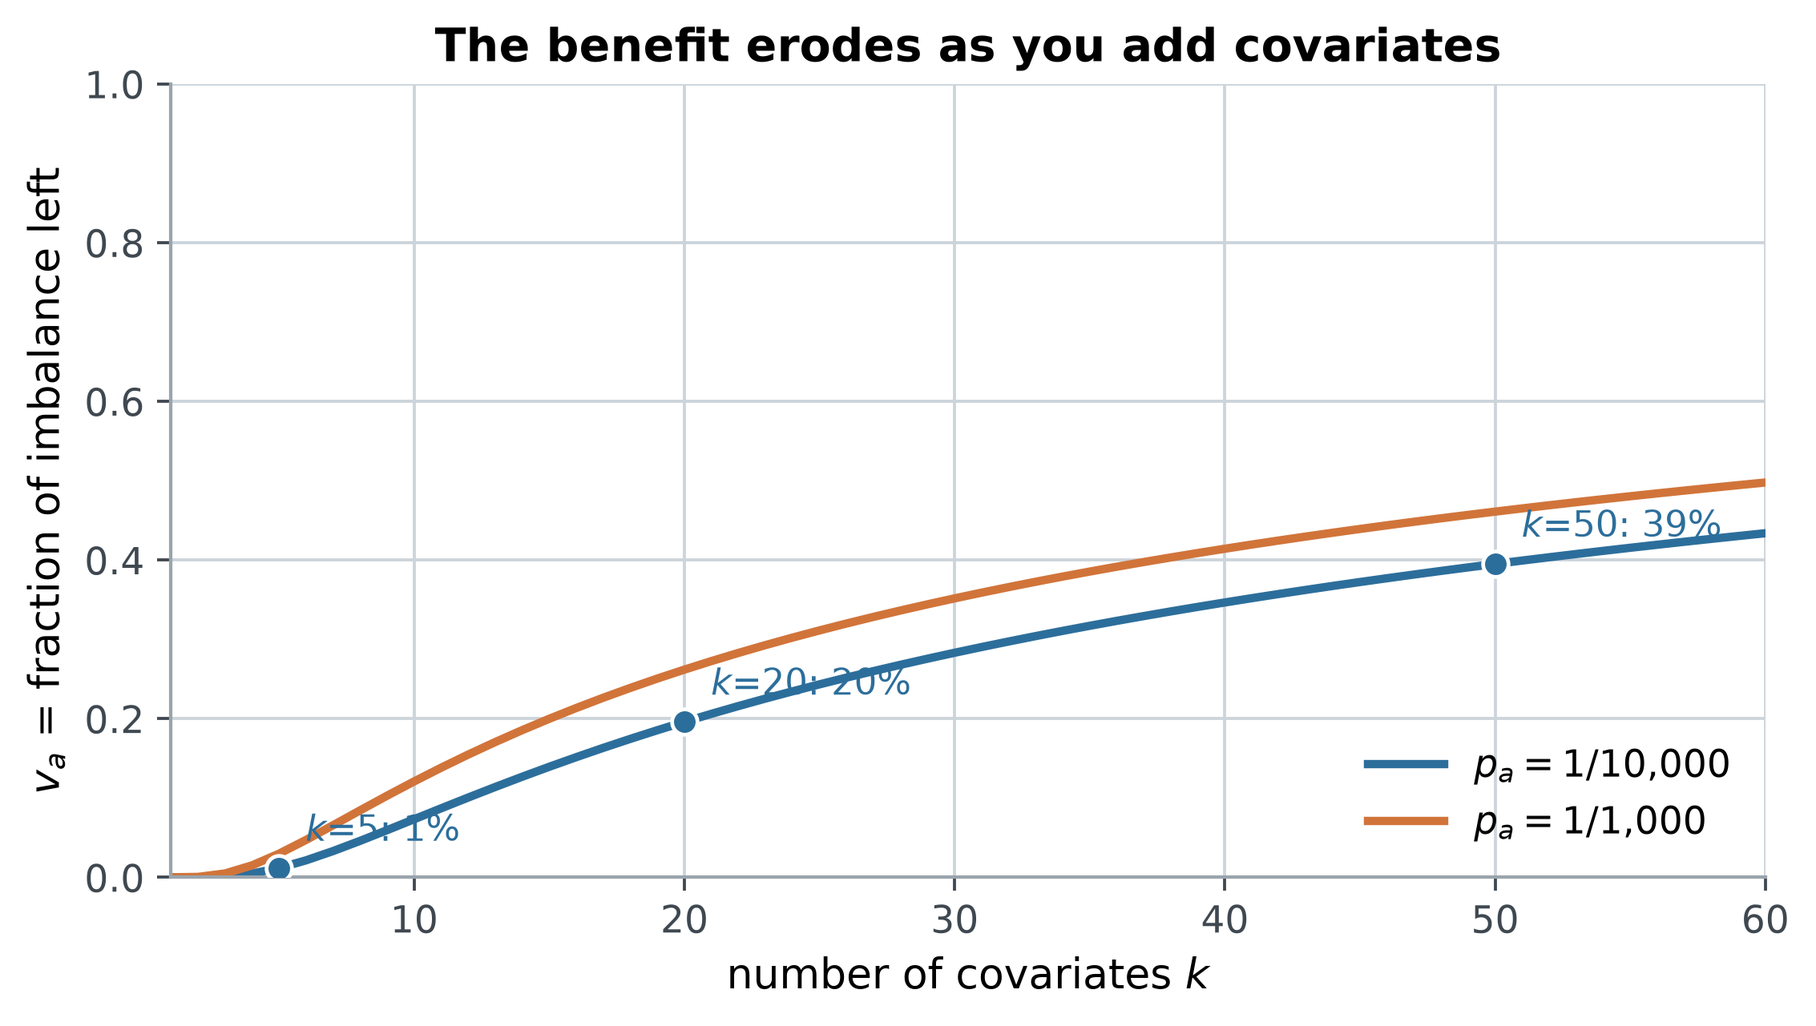
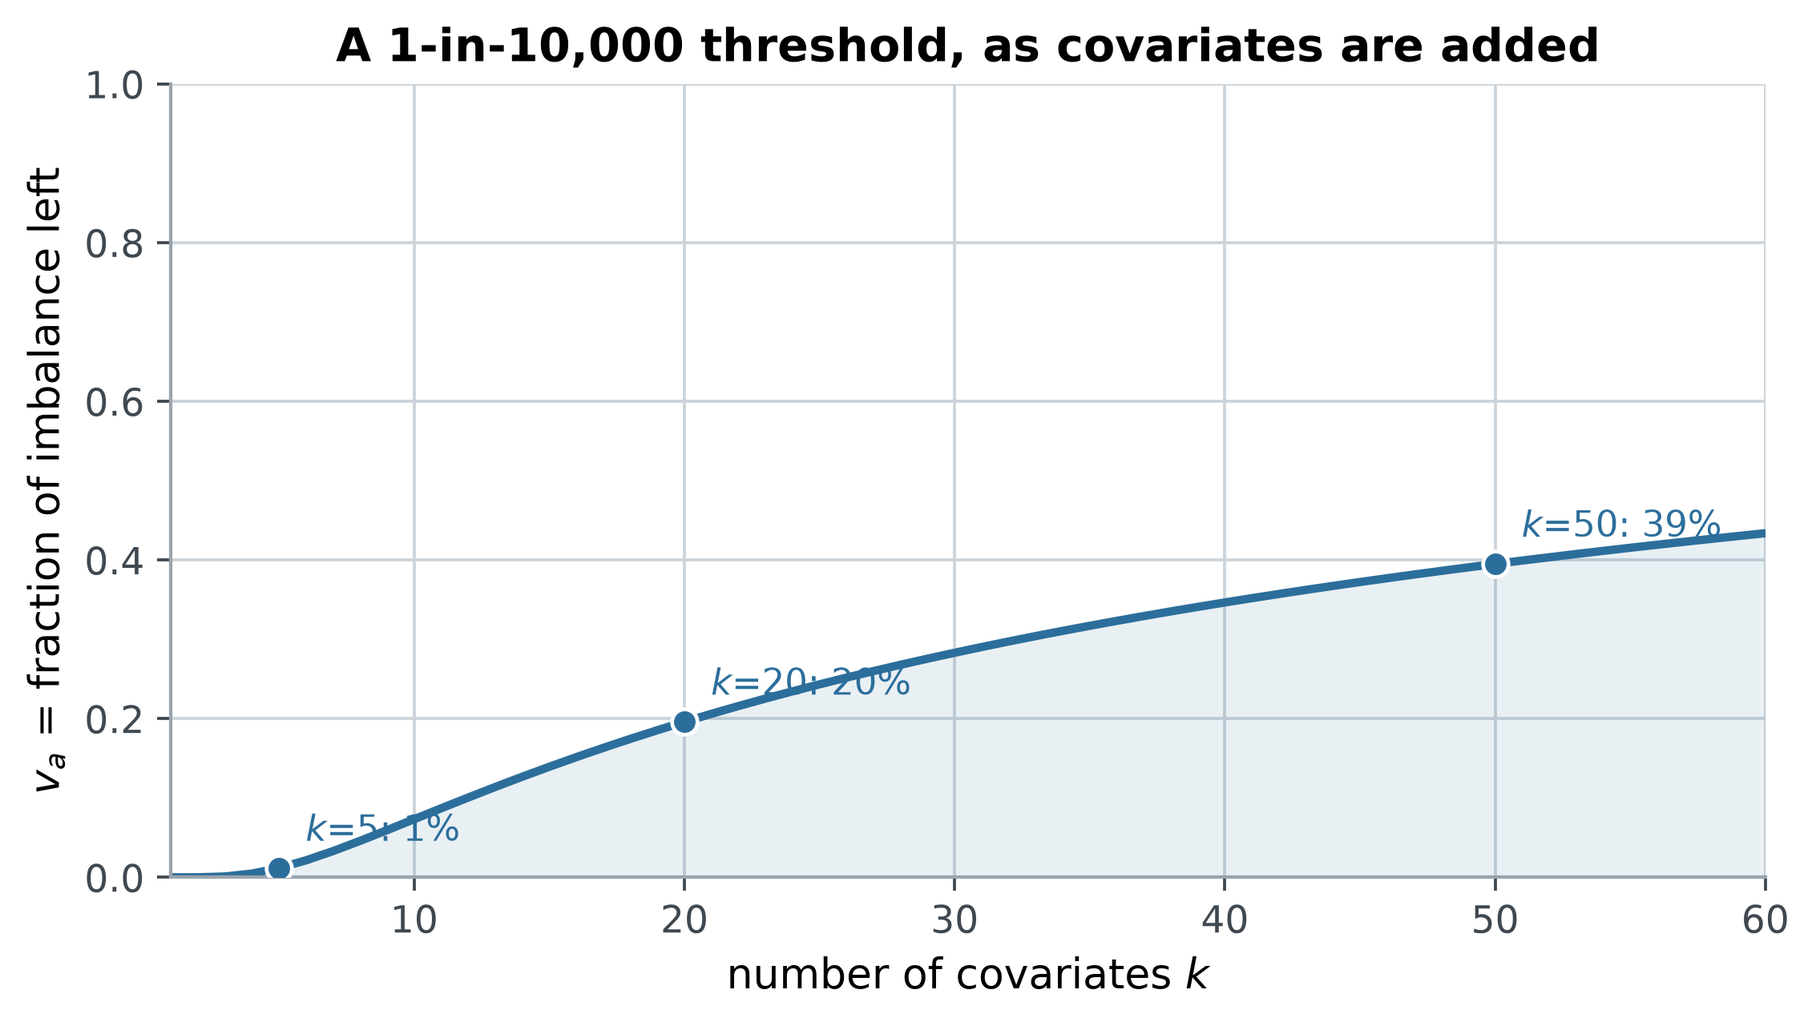
Fix table captions; correct the best-of-B attribution to Morgan and Rubin
Captions: the ": text {#tbl-id}" form only works for markdown pipe tables,
not for tables emitted by a code cell, so all three were rendering as
literal text under a bare "Table 1". Moved them into tbl-cap cell options.
The interactive figure was likewise rendering as an uncaptioned "Figure 1";
it now has one.

Attribution: I was wrong to say the best-of-B idea was not Morgan and
Rubin. It is theirs, in section 5.2 of the 2015 tiers paper, and the
article now quotes them. Checking the source confirms they offer it as an
expectation with no proof or simulation, so the computed comparison now
fills that gap rather than contradicting them: the two schemes differ most
at small k, where both have already removed essentially all the imbalance,
and converge to within a few percent at the large k where the residual
actually matters. Their expectation holds, for a reason the sentence
itself does not give.

Variance-reduction plot: single curve at p_a = 1/10,000 as requested.

Inference section now answers what the Li-Ding-Rubin distribution is
actually worth. Standard errors shrink by sqrt(1 - (1-v_a)R^2), so the
payoff is governed by R^2 and barely by the acceptance rate: 10% narrower
intervals at R^2 = 0.2, 54% at R^2 = 0.8. Added the three routes for a
general estimator, with the point that matters for a difference-in-
differences: adjusting for the balancing covariates restores asymptotic
normality (Li and Ding, 2020), so the closed form is usually unnecessary,
[…]

diff --git a/docs/posts/rerandomization/index.html b/docs/posts/rerandomization/index.html
@@ -160,7 +160,11 @@ window.Quarto = {
   <li><a href="#a-budget-instead-of-a-threshold" id="toc-a-budget-instead-of-a-threshold" class="nav-link" data-scroll-target="#a-budget-instead-of-a-threshold">A budget instead of a threshold</a></li>
   <li><a href="#the-acceptance-region" id="toc-the-acceptance-region" class="nav-link" data-scroll-target="#the-acceptance-region">The acceptance region</a></li>
   <li><a href="#how-much-does-it-buy-you" id="toc-how-much-does-it-buy-you" class="nav-link" data-scroll-target="#how-much-does-it-buy-you">How much does it buy you?</a></li>
-  <li><a href="#inference-after-rerandomization" id="toc-inference-after-rerandomization" class="nav-link" data-scroll-target="#inference-after-rerandomization">Inference after rerandomization</a></li>
+  <li><a href="#inference-after-rerandomization" id="toc-inference-after-rerandomization" class="nav-link" data-scroll-target="#inference-after-rerandomization">Inference after rerandomization</a>
+  <ul class="collapse">
+  <li><a href="#how-much-is-that-worth" id="toc-how-much-is-that-worth" class="nav-link" data-scroll-target="#how-much-is-that-worth">How much is that worth?</a></li>
+  <li><a href="#do-you-have-to-derive-it-for-your-own-estimator" id="toc-do-you-have-to-derive-it-for-your-own-estimator" class="nav-link" data-scroll-target="#do-you-have-to-derive-it-for-your-own-estimator">Do you have to derive it for your own estimator?</a></li>
+  </ul></li>
   <li><a href="#covariate-adjustment-as-an-alternative" id="toc-covariate-adjustment-as-an-alternative" class="nav-link" data-scroll-target="#covariate-adjustment-as-an-alternative">Covariate adjustment as an alternative</a></li>
   <li><a href="#practical-notes-and-failure-modes" id="toc-practical-notes-and-failure-modes" class="nav-link" data-scroll-target="#practical-notes-and-failure-modes">Practical notes and failure modes</a></li>
   <li><a href="#references" id="toc-references" class="nav-link" data-scroll-target="#references">References</a></li>
@@ -234,15 +238,15 @@ a = F^{-1}_{\chi^2_k}(p_a), \qquad \text{accept if } M \le a .
 <div class="cell" data-execution_count="2">
 <div id="tbl-thresholds" class="cell quarto-float quarto-figure quarto-figure-center anchored" data-execution_count="2">
 <figure class="quarto-float quarto-float-tbl figure">
-<figcaption class="quarto-float-caption-top quarto-float-caption quarto-float-tbl quarto-uncaptioned" id="tbl-thresholds-caption-0ceaefa1-69ba-4598-a22c-09a6ac19f8ca">
-Table&nbsp;1
+<figcaption class="quarto-float-caption-top quarto-float-caption quarto-float-tbl" id="tbl-thresholds-caption-0ceaefa1-69ba-4598-a22c-09a6ac19f8ca">
+Table&nbsp;1: Threshold <span class="math inline">\(a\)</span> for a given acceptance rate <span class="math inline">\(p_a\)</span> (rows) and number of covariates <span class="math inline">\(k\)</span> (columns). Accept a split when <span class="math inline">\(M \le a\)</span>. The first column is the average number of draws you will get through before one is accepted.
 </figcaption>
 <div aria-describedby="tbl-thresholds-caption-0ceaefa1-69ba-4598-a22c-09a6ac19f8ca">
 <div class="cell-output cell-output-display" data-execution_count="2">
 <div>
 
 
-<table class="dataframe caption-top table table-sm table-striped small" data-border="1">
+<table class="dataframe cell caption-top table table-sm table-striped small" data-border="1">
 <thead>
 <tr class="header">
 <th data-quarto-table-cell-role="th"></th>
@@ -319,24 +323,27 @@ Table&nbsp;1
 </figure>
 </div>
 </div>
-<p>: Threshold <span class="math inline">\(a\)</span> to use for a given acceptance rate <span class="math inline">\(p_a\)</span> (rows) and number of covariates <span class="math inline">\(k\)</span> (columns). Accept a split when <span class="math inline">\(M \le a\)</span>. The second column is the average number of draws you will get through before one is accepted. {#tbl-thresholds}</p>
 </section>
 <section id="a-budget-instead-of-a-threshold" class="level2">
 <h2 class="anchored" data-anchor-id="a-budget-instead-of-a-threshold">A budget instead of a threshold</h2>
-<p>Picking <span class="math inline">\(p_a\)</span> means committing to an unbounded loop: you will <em>probably</em> accept within a few thousand draws, but nothing guarantees it. The alternative is to fix a budget — draw 10,000 splits, keep the single best one — which runs in known time and requires no threshold at all.</p>
-<p>These are not the same procedure, and the difference goes the way most people guess wrong. Drawing <span class="math inline">\(B\)</span> and keeping the best is <strong>worse</strong> than thresholding at <span class="math inline">\(p_a = 1/B\)</span>, because the winner of a tournament of <span class="math inline">\(B\)</span> is not guaranteed to clear the 1-in-<span class="math inline">\(B\)</span> bar: it misses it about <span class="math inline">\((1 - 1/B)^B \approx 37\%\)</span> of the time.</p>
+<p>Picking <span class="math inline">\(p_a\)</span> means committing to an unbounded loop: you will <em>probably</em> accept within a few thousand draws, but nothing guarantees it. The alternative is to fix a budget — draw 10,000 splits, keep the single best one — which runs in known time and needs no threshold at all.</p>
+<p>Morgan and Rubin recommend exactly this, in §5.2 of their 2015 tiers paper:</p>
+<blockquote class="blockquote">
+<p>In practice we expect to see little difference between rerandomizing until an allocation with <span class="math inline">\(M \le a\)</span> is obtained, and choosing the allocation with the smallest <span class="math inline">\(M\)</span> from <span class="math inline">\(1/p_a\)</span> randomizations, where <span class="math inline">\(p_a = P(M \le a)\)</span>.</p>
+</blockquote>
+<p>That is offered as an expectation rather than a result — the paper gives no proof or simulation for it — so it is worth checking. The two schemes are genuinely different: the winner of a tournament of <span class="math inline">\(B\)</span> draws is not guaranteed to clear the 1-in-<span class="math inline">\(B\)</span> bar, and misses it about <span class="math inline">\((1 - 1/B)^B \approx 37\%\)</span> of the time. Best-of-<span class="math inline">\(B\)</span> is therefore always the weaker of the two.</p>
 <div class="cell" data-execution_count="3">
 <div id="tbl-budget" class="cell quarto-float quarto-figure quarto-figure-center anchored" data-execution_count="3">
 <figure class="quarto-float quarto-float-tbl figure">
-<figcaption class="quarto-float-caption-top quarto-float-caption quarto-float-tbl quarto-uncaptioned" id="tbl-budget-caption-0ceaefa1-69ba-4598-a22c-09a6ac19f8ca">
-Table&nbsp;2
+<figcaption class="quarto-float-caption-top quarto-float-caption quarto-float-tbl" id="tbl-budget-caption-0ceaefa1-69ba-4598-a22c-09a6ac19f8ca">
+Table&nbsp;2: Residual imbalance variance <span class="math inline">\(v\)</span> under the two schemes, as a fraction of what complete randomisation leaves. Lower is better. Best-of-10,000 is never better than thresholding at 1 in 10,000, but the gap closes quickly as covariates are added.
 </figcaption>
 <div aria-describedby="tbl-budget-caption-0ceaefa1-69ba-4598-a22c-09a6ac19f8ca">
 <div class="cell-output cell-output-display" data-execution_count="3">
 <div>
 
 
-<table class="dataframe caption-top table table-sm table-striped small" data-border="1">
+<table class="dataframe cell caption-top table table-sm table-striped small" data-border="1">
 <thead>
 <tr class="header">
 <th data-quarto-table-cell-role="th"></th>
@@ -391,8 +398,9 @@ Table&nbsp;2
 </figure>
 </div>
 </div>
-<p>: Residual imbalance variance <span class="math inline">\(v\)</span> under the two schemes, as a fraction of what complete randomisation leaves. Lower is better. Best-of-10,000 is never better than thresholding at 1 in 10,000, but the gap closes quickly as covariates are added. {#tbl-budget}</p>
-<p>With two covariates the budget approach leaves twice the imbalance variance. By ten covariates the penalty is 11%, and by twenty it is 6% — small enough that the predictable runtime is usually worth it. <strong>If you have more than a handful of covariates, picking a budget you can afford and keeping the best draw is a perfectly respectable design</strong>, and it removes the one genuinely awkward parameter. Just record that this is what you did, because the inference has to match the scheme you actually ran.</p>
+<p>The ratio column looks alarming at <span class="math inline">\(k = 2\)</span> — twice the imbalance variance — but read the absolute numbers next to it: <span class="math inline">\(0.00005\)</span> against <span class="math inline">\(0.00010\)</span>. Both schemes have annihilated the imbalance, and doubling almost nothing leaves almost nothing. The place where the difference could matter is at large <span class="math inline">\(k\)</span>, where a meaningful fraction of the imbalance survives, and that is precisely where the two schemes converge: 6% apart at twenty covariates, 3% at fifty.</p>
+<p>So Morgan and Rubin’s expectation holds up, for a reason their sentence does not give: the gap is largest exactly where both schemes are already good enough for it not to matter.</p>
+<p><strong>Pick a budget you can afford and keep the best draw.</strong> It removes the one genuinely awkward parameter and it runs in known time. Just record that this is what you did, because the inference has to match the scheme you actually ran.</p>
 </section>
 <section id="the-acceptance-region" class="level2">
 <h2 class="anchored" data-anchor-id="the-acceptance-region">The acceptance region</h2>
@@ -611,8 +619,8 @@ Table&nbsp;2
 })();
 </script>
 </div>
-<figcaption class="quarto-float-caption-bottom quarto-float-caption quarto-float-fig quarto-uncaptioned" id="fig-acceptance-zoom-caption-0ceaefa1-69ba-4598-a22c-09a6ac19f8ca">
-Figure&nbsp;1
+<figcaption class="quarto-float-caption-bottom quarto-float-caption quarto-float-fig" id="fig-acceptance-zoom-caption-0ceaefa1-69ba-4598-a22c-09a6ac19f8ca">
+Figure&nbsp;1: Each dot is one of 8,000 candidate splits, positioned at its pair of covariate mean differences. The solid ellipse is the 5% acceptance region; the dashed ellipses are the 50%, 20% and 1% regions. Drag the slider to magnify towards the origin.
 </figcaption>
 </figure>
 </div>
@@ -643,7 +651,7 @@ v_a \;=\; \frac{\operatorname{Var}_{\text{RR}}}{\operatorname{Var}_{\text{CR}}}
 <img src="index_files/figure-html/fig-variance-reduction-output-1.png" width="1133" height="641" class="figure-img">
 </div>
 <figcaption class="quarto-float-caption-bottom quarto-float-caption quarto-float-fig" id="fig-variance-reduction-caption-0ceaefa1-69ba-4598-a22c-09a6ac19f8ca">
-Figure&nbsp;2: Fraction of the imbalance variance that survives rerandomization at a 1-in-10,000 acceptance rate, as the number of covariates grows. Balancing a handful of covariates removes almost all of it; balancing fifty removes less than half, for the same 10,000 draws.
+Figure&nbsp;2: Fraction of the imbalance variance that survives rerandomization at a 1-in-10,000 acceptance rate, as the number of covariates grows. Balancing a handful removes almost all of it; balancing fifty removes less than half, for the same 10,000 draws.
 </figcaption>
 </figure>
 </div>
@@ -668,12 +676,77 @@ Figure&nbsp;2: Fraction of the imbalance variance that survives rerandomization 
 <section id="inference-after-rerandomization" class="level2">
 <h2 class="anchored" data-anchor-id="inference-after-rerandomization">Inference after rerandomization</h2>
 <p><em>Outline — to be written.</em></p>
-<p>Rerandomization changes the design, so it changes what “by chance” means. Two positions to reconcile:</p>
+<p>Rerandomization changes the design, so it changes what “by chance” means. If you rerandomize and then run an ordinary <span class="math inline">\(t\)</span>-test on the difference in means, the test is <em>conservative</em>: it prices in imbalance the design already removed, so your intervals are too wide and you give back the precision you just paid for.</p>
+<p>Li, Ding and Rubin (2018) derive what the distribution actually is. The difference in means is no longer asymptotically normal — it is a normal plus a truncated-normal term, the truncation coming from the acceptance rule. Its variance is a factor <span class="math inline">\(1 - (1 - v_a)R^2\)</span> smaller than the <span class="math inline">\(t\)</span>-test assumes, where <span class="math inline">\(R^2\)</span> is the squared multiple correlation between the outcome and the balanced covariates.</p>
+<section id="how-much-is-that-worth" class="level3">
+<h3 class="anchored" data-anchor-id="how-much-is-that-worth">How much is that worth?</h3>
+<p>Standard errors shrink by <span class="math inline">\(\sqrt{1 - (1 - v_a)R^2}\)</span>, so the whole gain is governed by <span class="math inline">\(R^2\)</span> — how well the covariates predict the outcome — and barely at all by how hard you rerandomized.</p>
+<div class="cell" data-execution_count="6">
+<div id="tbl-ldr-gain" class="cell quarto-float quarto-figure quarto-figure-center anchored" data-execution_count="6">
+<figure class="quarto-float quarto-float-tbl figure">
+<figcaption class="quarto-float-caption-top quarto-float-caption quarto-float-tbl" id="tbl-ldr-gain-caption-0ceaefa1-69ba-4598-a22c-09a6ac19f8ca">
+Table&nbsp;3: How much narrower a confidence interval becomes if you use the rerandomization distribution instead of a conventional <span class="math inline">\(t\)</span>-test, for a 1-in-10,000 acceptance rate. The payoff comes almost entirely from <span class="math inline">\(R^2\)</span>; the number of covariates barely matters.
+</figcaption>
+<div aria-describedby="tbl-ldr-gain-caption-0ceaefa1-69ba-4598-a22c-09a6ac19f8ca">
+<div class="cell-output cell-output-display" data-execution_count="6">
+<div>
+
+
+<table class="dataframe cell caption-top table table-sm table-striped small" data-border="1">
+<thead>
+<tr class="header">
+<th data-quarto-table-cell-role="th"></th>
+<th data-quarto-table-cell-role="th">R² = 0.2</th>
+<th data-quarto-table-cell-role="th">R² = 0.4</th>
+<th data-quarto-table-cell-role="th">R² = 0.6</th>
+<th data-quarto-table-cell-role="th">R² = 0.8</th>
+</tr>
+<tr class="even">
+<th data-quarto-table-cell-role="th">covariates k</th>
+<th data-quarto-table-cell-role="th"></th>
+<th data-quarto-table-cell-role="th"></th>
+<th data-quarto-table-cell-role="th"></th>
+<th data-quarto-table-cell-role="th"></th>
+</tr>
+</thead>
+<tbody>
+<tr class="odd">
+<th data-quarto-table-cell-role="th">5</th>
+<td>10% narrower</td>
+<td>22% narrower</td>
+<td>36% narrower</td>
+<td>54% narrower</td>
+</tr>
+<tr class="even">
+<th data-quarto-table-cell-role="th">20</th>
+<td>8% narrower</td>
+<td>18% narrower</td>
+<td>28% narrower</td>
+<td>40% narrower</td>
+</tr>
+</tbody>
+</table>
+
+</div>
+</div>
+</div>
+</figure>
+</div>
+</div>
+<p>With covariates that explain 20% of the outcome, the correction is worth about a tenth of your interval width — real, but unlikely to change a conclusion. At <span class="math inline">\(R^2 = 0.8\)</span> it halves the interval, which certainly would. So the question is not “did I rerandomize hard enough” but “do my covariates predict the outcome at all”.</p>
+</section>
+<section id="do-you-have-to-derive-it-for-your-own-estimator" class="level3">
+<h3 class="anchored" data-anchor-id="do-you-have-to-derive-it-for-your-own-estimator">Do you have to derive it for your own estimator?</h3>
+<p>Mostly, no — and this is the part worth knowing before you reach for the closed form. Three routes, in increasing order of effort:</p>
 <ol type="1">
-<li><strong>Adjust for the balancing covariates in the analysis.</strong> This is what most practitioners do: regress the outcome on treatment plus the covariates used in the design. It is simple, familiar, and largely self-correcting.</li>
-<li><strong>Use the rerandomization distribution directly.</strong> Li, Ding and Rubin (2018) show that the unadjusted difference in means is no longer asymptotically normal after rerandomization — it is a normal plus a truncated-normal term, because the design has removed exactly the part of the imbalance that the covariates explain. A conventional <span class="math inline">\(t\)</span>-test is therefore <em>conservative</em>: intervals are too wide, and you lose the precision the design just bought.</li>
+<li><strong>Adjust for the balancing covariates in your regression.</strong> Li and Ding
+<ol start="2020" type="1">
+<li>show that once the analysis adjusts for the variables used in the design, asymptotic normality comes back and conventional standard errors are justified again. The truncated term was the part of the imbalance the covariates explain, so regressing on them absorbs it. This is what most practitioners already do by instinct, it costs nothing, and it is the default I would recommend.</li>
+</ol></li>
+<li><strong>Randomisation inference.</strong> Re-draw assignments under the <em>same</em> acceptance rule, recompute your estimator each time, and read the reference distribution off the results. This needs no new theory and works for any estimator — difference-in-differences, clustered errors, instrumental variables — which makes it the general answer. The cost is compute: your whole estimation routine runs thousands of times. It is also the only clean option if you used a best-of-<span class="math inline">\(B\)</span> budget, since the acceptance rule is then not a simple threshold.</li>
+<li><strong>A closed-form correction for your estimator.</strong> The Li–Ding–Rubin result is for the difference in means. For a difference-in-differences regression you would need the corresponding theory; recent work extends this to general M-estimators, but deriving it yourself for a bespoke specification is a research project, not an analysis step.</li>
 </ol>
-<p>Planned content: why the two views mostly agree when the analysis adjusts for the same covariates used in the design; how to run a randomisation test that redraws under the same acceptance rule (including the best-of-<span class="math inline">\(B\)</span> variant, where the rule is not a simple threshold); and when the truncated-normal correction is worth the trouble.</p>
+<p>Planned content: a worked randomisation test against the same acceptance rule, and a simulation checking how much the adjusted-regression route gives up against the exact correction.</p>
 <div class="callout callout-style-default callout-warning callout-titled">
 <div class="callout-header d-flex align-content-center">
 <div class="callout-icon-container">
@@ -689,6 +762,7 @@ Figure&nbsp;2: Fraction of the imbalance variance that survives rerandomization 
 <p>The design argument points the same way. The randomisation distribution is defined by the acceptance rule, and that rule was evaluated against the baseline numbers. Those are the values that determine which splits could have occurred, so those are the values the analysis has to condition on. Freeze your covariate table when you draw the split, and keep it.</p>
 </div>
 </div>
+</section>
 </section>
 <section id="covariate-adjustment-as-an-alternative" class="level2">
 <h2 class="anchored" data-anchor-id="covariate-adjustment-as-an-alternative">Covariate adjustment as an alternative</h2>
@@ -713,6 +787,7 @@ Figure&nbsp;2: Fraction of the imbalance variance that survives rerandomization 
 <li>Morgan, K. L. and Rubin, D. B. (2012). <a href="https://doi.org/10.1214/12-AOS1008">Rerandomization to improve covariate balance in experiments</a>. <em>The Annals of Statistics</em>, 40(2), 1263–1282.</li>
 <li>Morgan, K. L. and Rubin, D. B. (2015). <a href="https://doi.org/10.1080/01621459.2015.1079528">Rerandomization to balance tiers of covariates</a>. <em>JASA</em>, 110(512), 1412–1421.</li>
 <li>Li, X., Ding, P. and Rubin, D. B. (2018). <a href="https://doi.org/10.1073/pnas.1808191115">Asymptotic theory of rerandomization in treatment–control experiments</a>. <em>PNAS</em>, 115(37), 9157–9162.</li>
+<li>Li, X. and Ding, P. (2020). <a href="https://doi.org/10.1111/rssb.12353">Rerandomization and regression adjustment</a>. <em>Journal of the Royal Statistical Society Series B</em>, 82(1), 241–268.</li>
 <li>Wang, Y. and Li, X. (2025). <a href="https://doi.org/10.1016/j.jeconom.2025.106053">Asymptotic theory of the best-choice rerandomization using the Mahalanobis distance</a>. <em>Journal of Econometrics</em>.</li>
 </ul>
 

diff --git a/docs/index.html b/docs/index.html
@@ -277,7 +277,7 @@ Aug 24, 2026
 </a>
 </div>
 </div>
-<div class="quarto-post image-right" data-index="1" data-categories="cmVyYW5kb21pemF0aW9uJTJDZGVzaWduJTJDaW5mZXJlbmNl" data-listing-date-sort="1787526000000" data-listing-file-modified-sort="1789968398390" data-listing-date-modified-sort="NaN" data-listing-reading-time-sort="15" data-listing-word-count-sort="2851">
+<div class="quarto-post image-right" data-index="1" data-categories="cmVyYW5kb21pemF0aW9uJTJDZGVzaWduJTJDaW5mZXJlbmNl" data-listing-date-sort="1787526000000" data-listing-file-modified-sort="1790106169608" data-listing-date-modified-sort="NaN" data-listing-reading-time-sort="18" data-listing-word-count-sort="3402">
 <div class="body">
 <h3 class="no-anchor listing-title">
 <a href="./posts/rerandomization/index.html" class="no-external">Rerandomization</a>
